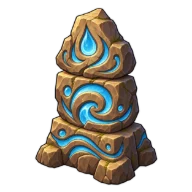
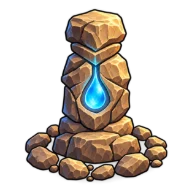
대지 토템도 판 위 물건으로: 스킬 아이콘과 같은 그림, 칸 가운데 이름·체력 뒤
- board-totem-earth를 스킬 아이콘(물방울 보석 돌기둥 + 돌 고리)과 같은 토템으로 다시 그림 (Codex, 192px)
- 대지 토템도 stand: 세운 칸 가운데 고정, 직업 칸 색 위 · 아이콘·이름·체력 뒤, 사람이 옮겨 가도 그 칸에 남음
- 그림마다 그려진 부분 상자 (STAND_BOX), 한 칸에 샘 + 대지면 0.72배로 나란히
- 칸 바닥의 돌 토템 그림(ui-class-board-totem-earth)은 판에서 안 씀

diff --git a/src/battle/board.ts b/src/battle/board.ts
@@ -1129,21 +1129,24 @@ export function lensAt(idx: number, now: number): void { B2.lens = { idx, t0: no
 const HOT_COLOR: Record<string, number> = { sprout: 0x7bc67e, growth: 0xb7e07a, wildflower: 0xe59ac0, oath: 0xf0c46a, bloom: 0xf3c7d6, lightWave: 0xffe7a3, droplet: 0x7ec8f0, wanderMist: 0x6fd0b0, starMark: 0xe8b04a };
 /**
  * 판 위 물건 (79 6-1, engine/totems): 칸 바닥 색 · 그림 이름 (80 5장 board-*, 오기 전엔 바닥 색 + 안쪽 테두리). 범위 = 테두리를 그릴 거리
- * stand = 바닥 무늬가 아니라 칸 위에 선 물건 (standL): 사람이 서 있어도 그 칸 가운데에 크게, 이름 · 체력 뒤. 샘 토템 = 스킬 아이콘과 같은 나무 그루터기 분수 (2026-10-16)
+ * stand = 바닥 무늬가 아니라 칸 위에 선 물건 (standL): 사람이 서 있어도 그 칸 가운데에 크게, 이름 · 체력 뒤. 샘 · 대지 토템 = 스킬 아이콘과 같은 그림 (2026-10-16)
  */
 const TOTEM_LOOK: Record<TotemKind, { color: number; art: string; label: string; stand?: boolean }> = {
   spring: { color: 0x7ec8f0, art: 'board-totem-spring', label: '샘', stand: true },
-  earth: { color: 0xc49a62, art: 'ui-class-board-totem-earth', label: '대지' },
+  earth: { color: 0xc49a62, art: 'board-totem-earth', label: '대지', stand: true },
   sea: { color: 0x4fa8e0, art: 'board-sea-spring', label: '바다' },
   mist: { color: 0x6fd0b0, art: 'board-mist-pool', label: '안개' },
   citadel: { color: 0xe6d3a0, art: 'board-citadel', label: '성채' },
   nova: { color: 0xd19a5e, art: 'board-supernova', label: '별' },
 };
-/** 선 물건 그림 한 변 (칸 반지름 배) · 그 안에서 그려진 부분 (폭 · 높이 비율, board-totem-spring 납품본을 잼): 그려진 부분이 칸 안에 꽉 차게 */
-const STAND_SIZE = 1.5, STAND_W = 0.72, STAND_H = 0.95;
+/** 선 물건 그림 한 변 (칸 반지름 배) · 그림마다 그려진 부분 (폭 · 높이 비율, 2026-10-16 납품본을 잼): 그려진 부분이 칸 안에 꽉 차게 */
+const STAND_SIZE = 1.5;
+const STAND_BOX: Record<string, [number, number]> = { 'board-totem-spring': [0.72, 0.95], 'board-totem-earth': [0.75, 0.91] };
+/** 한 칸에 선 물건이 둘 (샘 + 대지 · 두 개의 샘)이면 이만큼 줄여 나란히 */
+const STAND_PAIR = 0.72;
 /** 힐러 직업 4종 판 위 그림 (80 5장): 전투 시작 때 그 직업 것만 미리 읽음 (첫 토템 · 인장부터 보이게) */
 const HERO_BOARD_ART: Partial<Record<HeroKey, string[]>> = {
-  shaman: ['board-totem-spring', 'ui-class-board-totem-earth', 'board-totem-rain', 'board-sea-spring'],
+  shaman: ['board-totem-spring', 'board-totem-earth', 'board-totem-rain', 'board-sea-spring'],
   monk: ['board-mist', 'board-mist-pool'],
   astrologer: ['board-star', 'board-star-mark', 'board-star-sleep', 'board-supernova'],
   warder: ['board-seal', 'board-barrier', 'board-citadel'],
@@ -1398,15 +1401,19 @@ export function render(now: number): void {
     // 드루이드 이끼 자리 (특성 77): 이끼 초록 바닥, 끝나기 2초 전 깜빡임 (정식 바닥 그림은 78 그림 요청)
     { const mu = F.tx.moss?.get(i); if (mu != null && mu > F.t) hexPoly(cellsG, p.x, p.y, r).fill({ color: HOT_COLOR.sprout, alpha: mu - F.t < 2 ? 0.06 + 0.12 * pulse : 0.16 }); }
     // 판 위 물건 (79 6-1: 토템 · 샘 · 성채 · 초신성): 그림 (80 5장)이 있으면 그 그림, 없으면 바닥 색 + 안쪽 테두리. 끝나기 2초 전 깜빡임
+    const standHere = F.totems.filter(tm => tm.cell === i && TOTEM_LOOK[tm.kind].stand);
     for (const tm of F.totems) if (tm.cell === i) {
       const look = TOTEM_LOOK[tm.kind], end = tm.until - F.t < 2, tex = artTexture(look.art);
       hexPoly(cellsG, p.x, p.y, r).fill({ color: look.color, alpha: end ? 0.08 + 0.14 * pulse : 0.22 });
       if (tex && look.stand) {
         // 선 물건 (2026-10-16 Lim 「토템 위치는 고정, 이름 · 체력 뒤 직업 칸 색 위에 가운데 크게, 캐릭터가 이동해도 그 자리」): 칸 가운데, 세울 때 0.25초 솟아오름 (바닥 기준)
         const rise = S.reducedEffects ? 1 : Math.min(1, Math.max(0, (F.t - tm.at) / 0.25)), k = 0.6 + 0.4 * (1 - (1 - rise) ** 2);
-        const size = r * STAND_SIZE, half = (size * STAND_H) / 2, q = fitCenter(p.x, p.y, (size * STAND_W) / 2, half);
+        const [bw, bh] = STAND_BOX[look.art] ?? [1, 1], n = standHere.length, j = standHere.indexOf(tm);
+        const size = r * STAND_SIZE * (n > 1 ? STAND_PAIR : 1), w = size * bw, half = (size * bh) / 2;
+        const pitch = size * Math.max(...standHere.map(o => (STAND_BOX[TOTEM_LOOK[o.kind].art] ?? [1, 1])[0])) * 1.04;
+        const q = fitCenter(p.x + (j - (n - 1) / 2) * pitch, p.y, w / 2, half);
         stands.put(tex, q.x, q.y + half * (1 - k), size * k, size * k, end ? 0.5 + 0.5 * pulse : 1);
-        recordBound(`stand-${tm.kind}${i}`, 'stand', 'rect', q.x, q.y, size * STAND_W, size * STAND_H, { diameter: size });
+        recordBound(`stand-${tm.kind}${i}-${j}`, 'stand', 'rect', q.x, q.y, w, size * bh, { diameter: size });
       } else if (tex) decals.put(tex, p.x, p.y, cellArt, cellArt, end ? 0.5 + 0.5 * pulse : 1);
       else hexPoly(cellsG, p.x, p.y, r * 0.62).stroke({ width: 2.5, color: look.color, alpha: 0.9 });
     }
